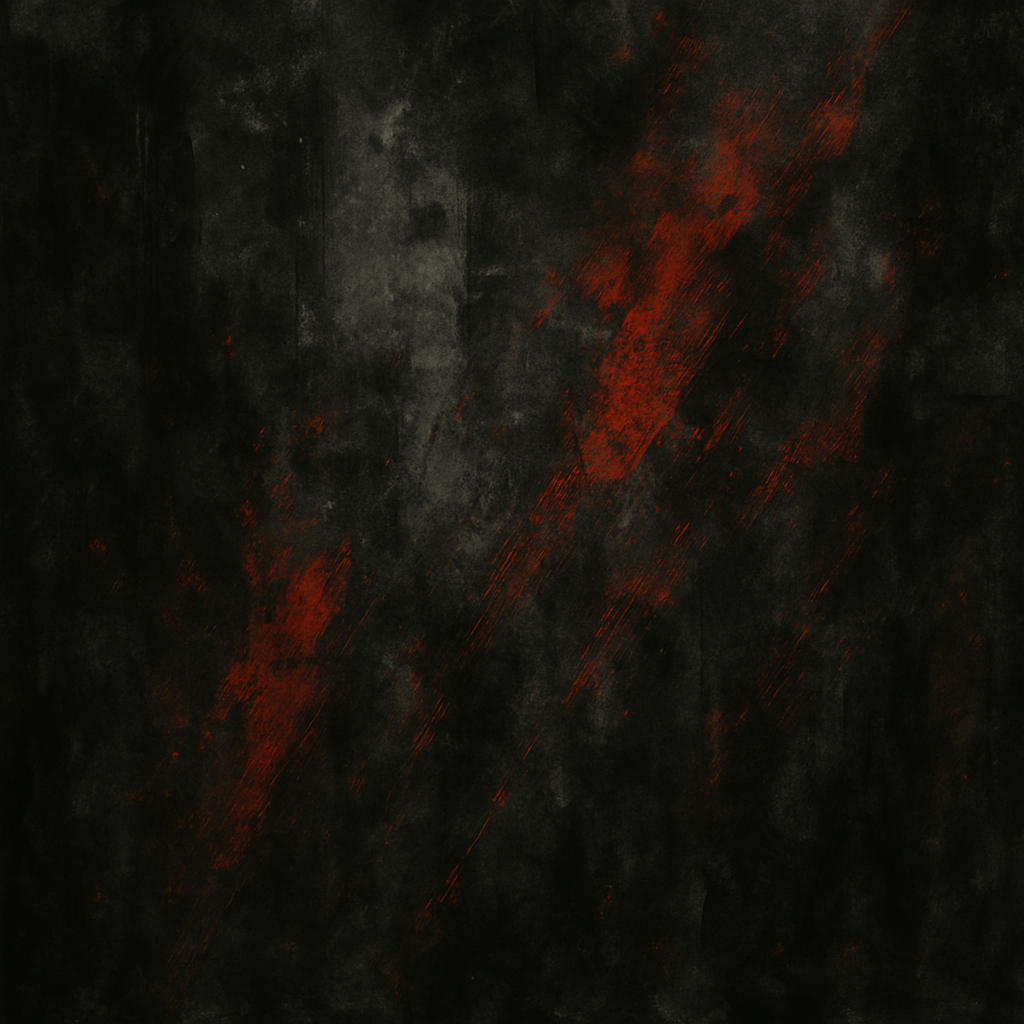
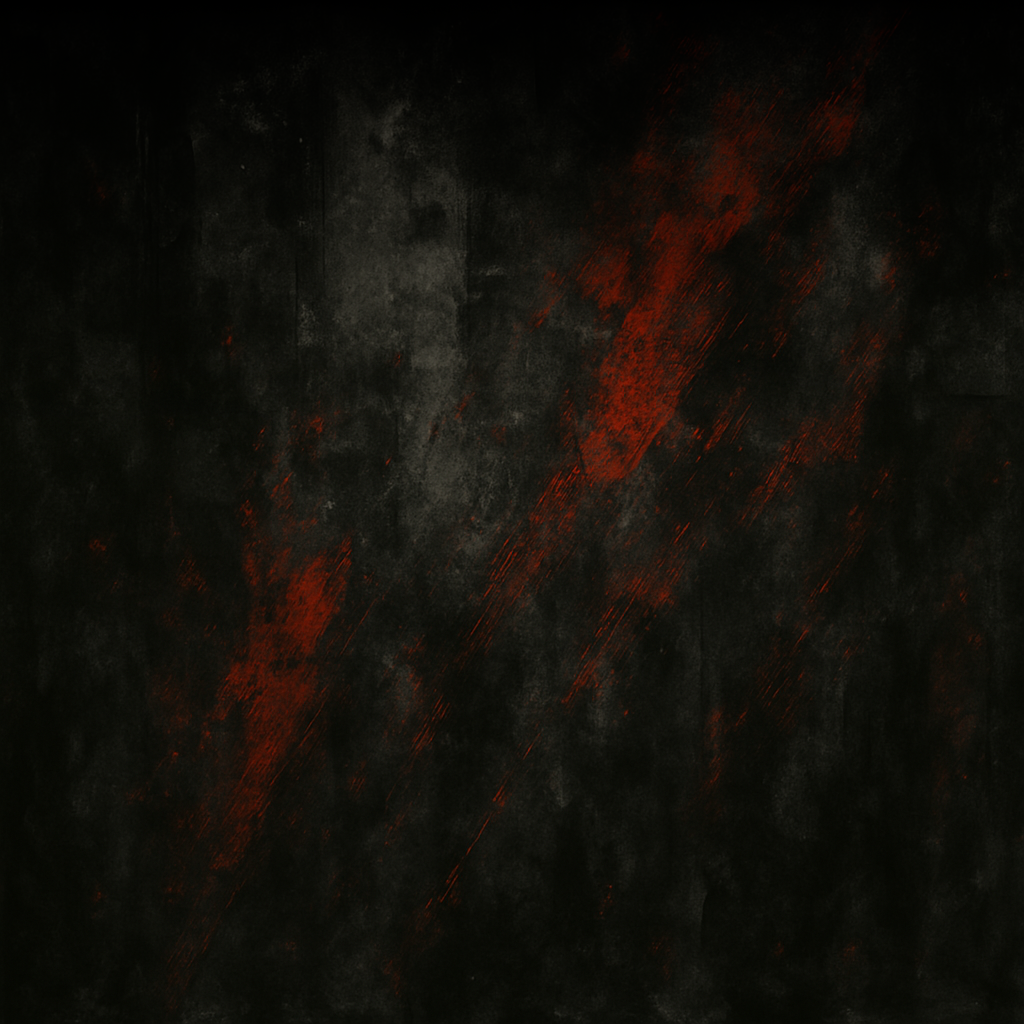
Blend actividades

diff --git a/metal_gym/pages/actividades/boxeo.html b/metal_gym/pages/actividades/boxeo.html
@@ -52,10 +52,9 @@
             <a href="/metal_gym/pages/pago.html" class="btn cta-actividad">¡Apúntate ya!</a>
         </div>
     </section>
-
     <!-- Carrusel centrado -->
     <div class="carousel-centrado align-items-center justify-content-center"
-        style="min-height: 100vh; background-image: url(/metal_gym/images/actividades/boxeo/fondo.png);">
+        style="background-image: url(/metal_gym/images/actividades/boxeo/fondo.png); padding: 10% 0%; background-size: cover; background-position: top;">
         <div class="mx-auto px-3" style="max-width: 900px;">
             <div class="translucid text-center mb-4">
                 <div>

diff --git a/metal_gym/css/actividades/nuestras-actividades.css b/metal_gym/css/actividades/nuestras-actividades.css
@@ -1,6 +1,6 @@
 /* Hero de Actividades */
 .hero-actividades {
-    background: url("/metal_gym/images/actividades/fondo-actividades-hero-blur.png") center/cover no-repeat;
+    background: url("/metal_gym/images/actividades/fondo-actividades-hero-blur.png") bottom/cover no-repeat;
     height: 100vh;
     max-height: 1000px;
     min-height: 700px;
@@ -34,6 +34,7 @@
     padding: 15% 5%;
     background-image: url("/metal_gym/images/actividades/fondo-actividades.png");
     background-size: cover;
+    background-position: top;
 }
 
 /* === Estilos tipo Card para cada Actividad === */

diff --git a/metal_gym/css/actividades/actividad.css b/metal_gym/css/actividades/actividad.css
@@ -1,7 +1,3 @@
-
-
-
-
 .hero {
     background-image: url("/metal_gym/images/actividades/yoga/fondo_yoga_blur.png");
     background-size: cover;               /* Mantiene proporción */
@@ -11,7 +7,6 @@
     min-height: 100vh;                    /* O lo que necesites para el diseño */
     position: relative;                   /* Por si añades contenido posicionado */
     overflow: visible;                    /* Asegura que no se oculte la parte que sobresale por arriba */
-    padding-bottom: 20%;
 }
 
 .carousel-centrado {
